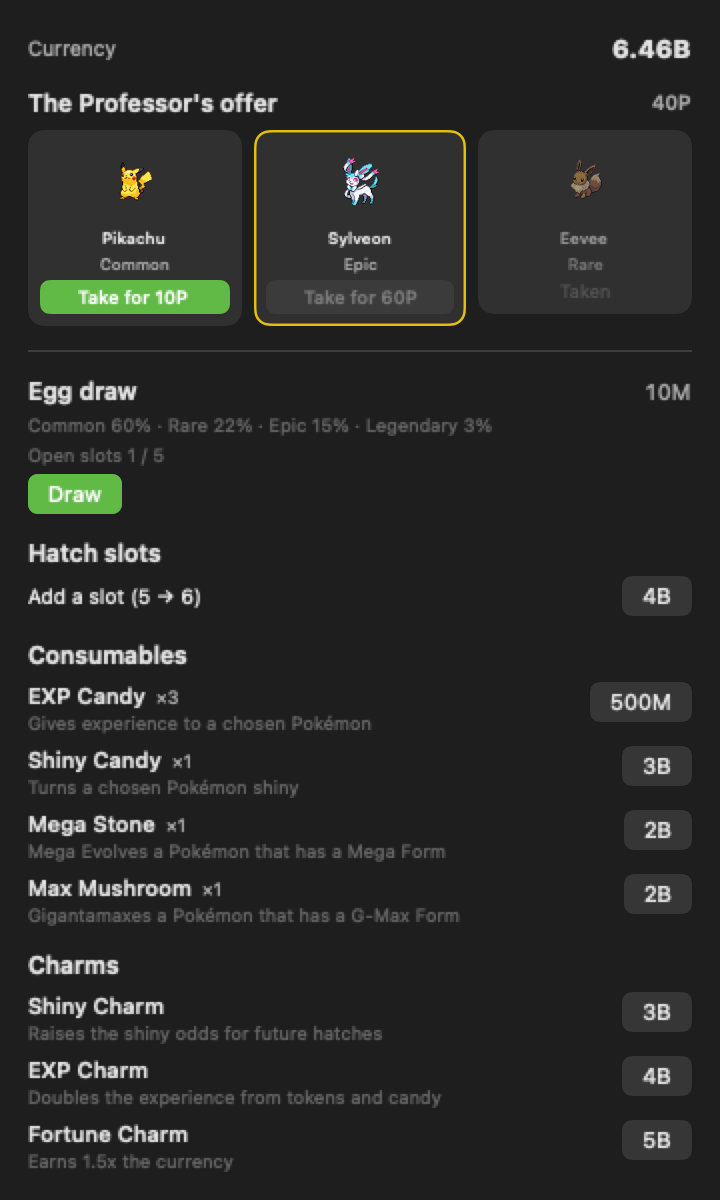
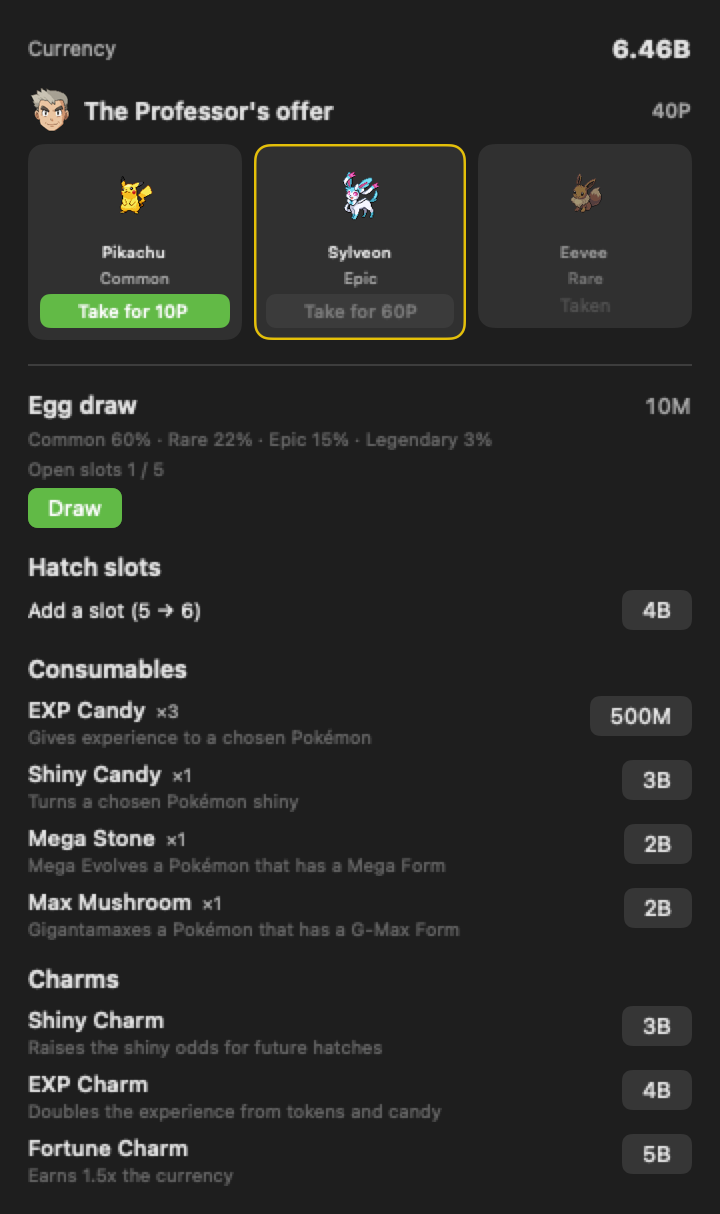
feat: put the Professor's face on his offer

diff --git a/Sources/PokeDexBar/UI/ProfessorIcon.swift b/Sources/PokeDexBar/UI/ProfessorIcon.swift
@@ -1,0 +1,43 @@
+import SwiftUI
+
+/// 박사 얼굴. "박사의 제안" 이 **누구의** 제안인지 한눈에 말해 준다 — 제목만 있으면 상점의
+/// 다른 섹션들과 같은 무게로 읽히고, 이 자리가 사람과 거래하는 자리라는 게 안 보인다.
+///
+/// 리소스 접근은 `RibbonIcon`·`EggIcon` 과 같은 규율을 따른다: 배포 `.app` 에서는 `Bundle.module`
+/// 을 건드리지 않는다(그 접근자는 못 찾으면 `fatalError` 로 죽고, 그게 찾는 자리에 번들을 두면
+/// codesign 이 앱 서명을 거부한다). 못 찾으면 그림 없이 비운다 — 얼굴 하나 때문에 앱이 죽는 건
+/// 어떤 이득보다 나쁘다.
+struct ProfessorIcon: View {
+    var size: CGFloat = 22
+
+    var body: some View {
+        if let image = Self.image {
+            Image(nsImage: image)
+                .resizable().interpolation(.high)
+                .scaledToFit()
+                .frame(width: size, height: size)
+        }
+    }
+
+    /// 한 번 읽으면 캐시한다 — 상점을 열 때마다 디스크를 때리지 않게.
+    @MainActor private static var cached: NSImage?
+
+    @MainActor static var image: NSImage? {
+        if let cached { return cached }
+        guard let url = resourceURL, let image = NSImage(contentsOf: url) else { return nil }
+        cached = image
+        return image
+    }
+
+    nonisolated static var resourceURL: URL? {
+        guard AppEnv.isBundledApp else {
+            return Bundle.module.url(forResource: "oak", withExtension: "png", subdirectory: "professor")
+                ?? Bundle.module.url(forResource: "oak", withExtension: "png")
+        }
+        let bundlePath = Bundle.main.bundleURL
+            .appendingPathComponent("Contents/Resources/PokeDexBar_PokeDexBar.bundle")
+        guard let bundle = Bundle(path: bundlePath.path) else { return nil }
+        return bundle.url(forResource: "oak", withExtension: "png", subdirectory: "professor")
+            ?? bundle.url(forResource: "oak", withExtension: "png")
+    }
+}

diff --git a/Tests/PokeDexBarTests/ScreenshotGenerator.swift b/Tests/PokeDexBarTests/ScreenshotGenerator.swift
@@ -863,6 +863,13 @@ final class ScreenshotGeneratorTests: XCTestCase {
         }
         defer { AppEnv.appVersionOverride = nil }
 
+        // 디스크에서 읽어 오는 그림은 **미리 캐시에 올려 둔다.** 첫 접근이 디스크 읽기 + PNG
+        // 디코드를 동기로 하는데, 아래 애니메이션 캡처는 `pump(0.05)` 창 안에서 레이아웃이
+        // 끝나기를 기대한다 — 그 창에 디코드가 끼면 프레임 간격이 밀리고 연출 단계가 잘린다
+        // (박사 얼굴을 상점 헤더에 붙였을 때 실제로 두 단언이 깨졌다). 실앱에서는 상점을 한 번
+        // 열고 나면 이미 캐시돼 있어 이 비용이 사용자에게 보이지 않는다.
+        _ = ProfessorIcon.image
+
         let fixture = makeFixture()
         setLanguage(.en, fixture)
 

diff --git a/Sources/PokeDexBar/UI/ProfessorOfferSection.swift b/Sources/PokeDexBar/UI/ProfessorOfferSection.swift
@@ -21,7 +21,10 @@ struct ProfessorOfferSection: View {
 
     var body: some View {
         VStack(alignment: .leading, spacing: 6) {
-            HStack {
+            HStack(spacing: 6) {
+                // 얼굴이 제목 왼쪽에 온다 — 이 자리가 상점의 다른 진열대가 아니라 **누군가와
+                // 거래하는 자리**라는 걸 글자보다 먼저 말한다.
+                ProfessorIcon()
                 Text(l.professorOffersTitle)
                     .font(.system(size: 12, weight: .semibold))
                 Spacer()
